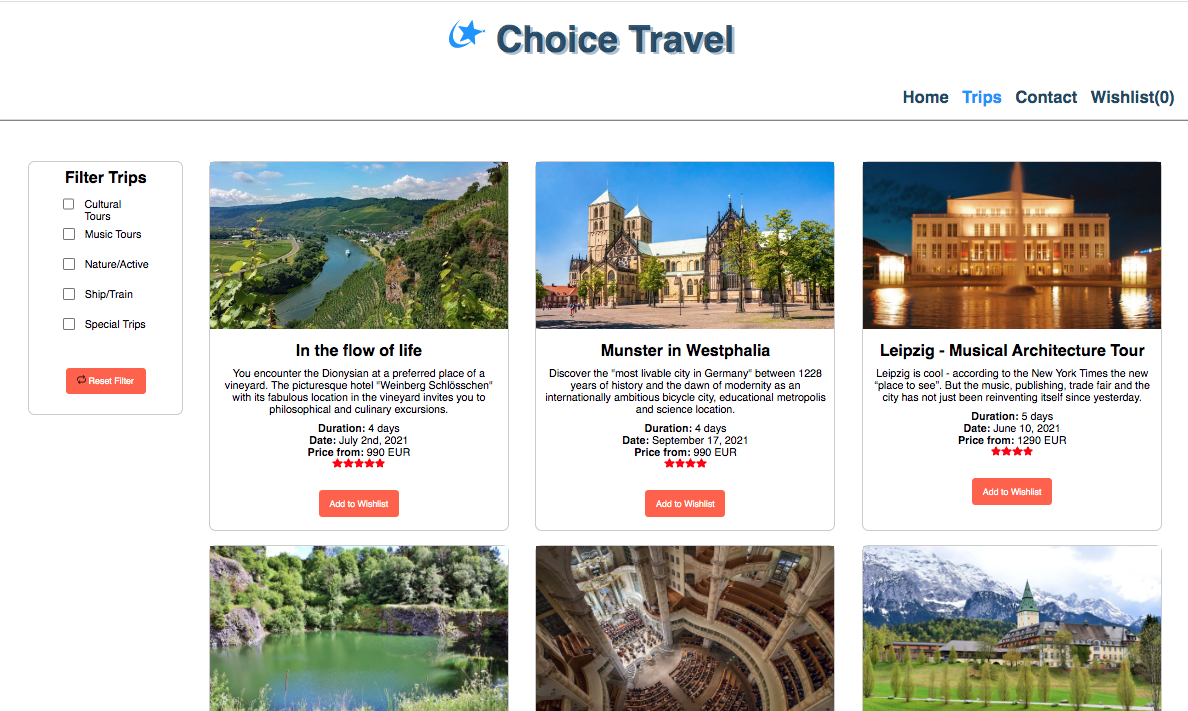
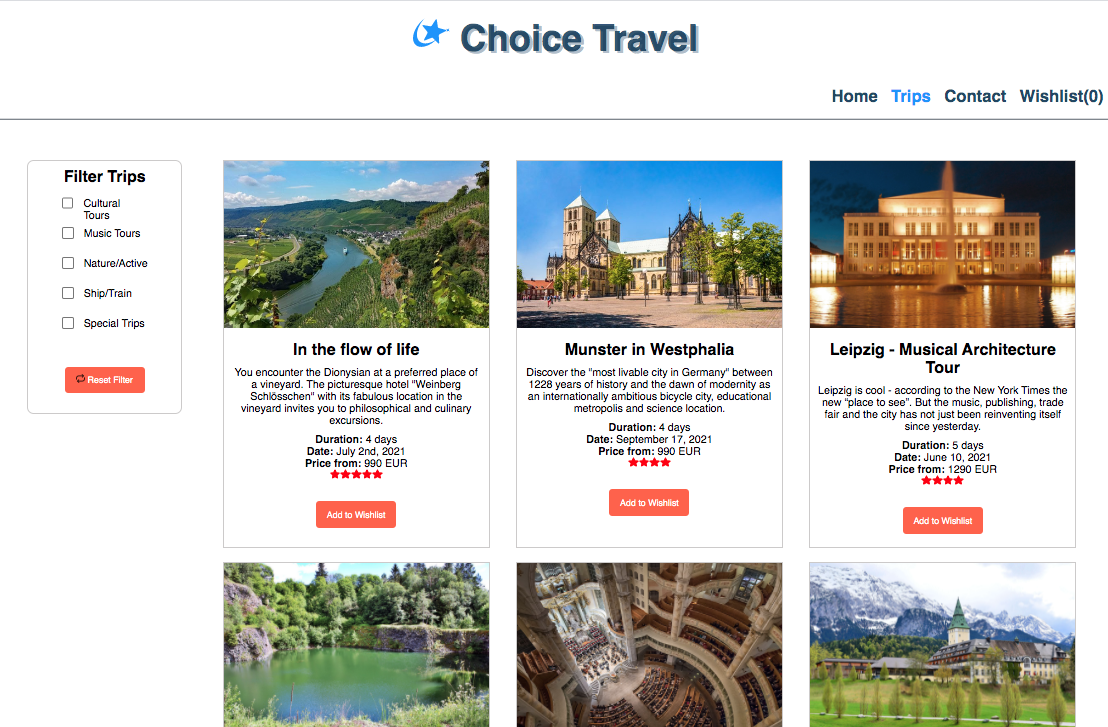
modified

diff --git a/src/css/App.css b/src/css/App.css
@@ -163,9 +163,9 @@ label {
   display: flex;
   flex-direction: column;
   align-items: center;
+  width: 300px;
   margin: 10px 20px;
   border: 1px solid rgba(158, 155, 155, 0.529);
-  border-radius: 10px;
 }
 
 .trip img {
@@ -316,6 +316,6 @@ footer p {
   }
 
   .trip {
-    width: 450px;
+    width: 400px;
   }
 }
